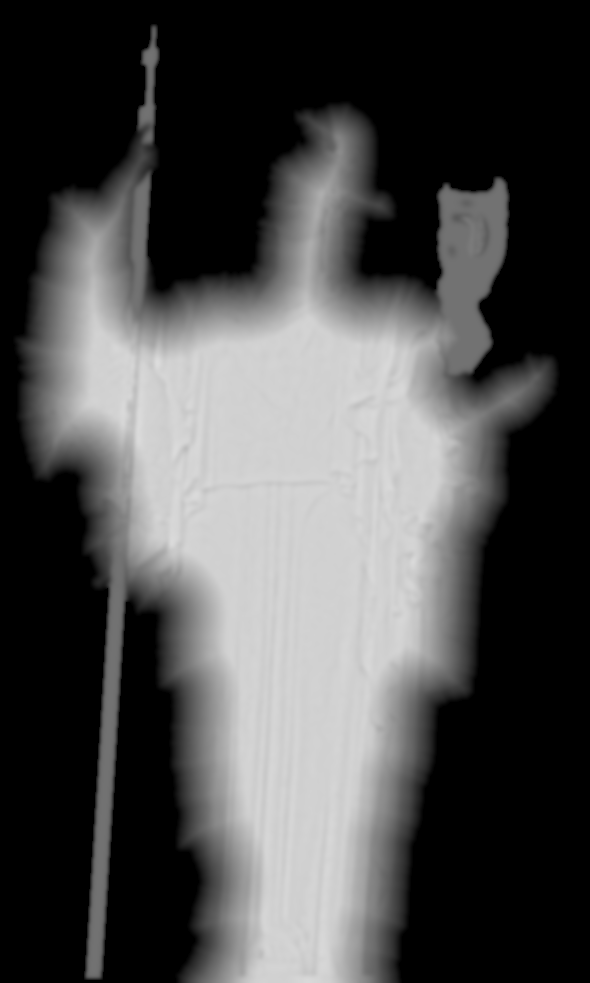
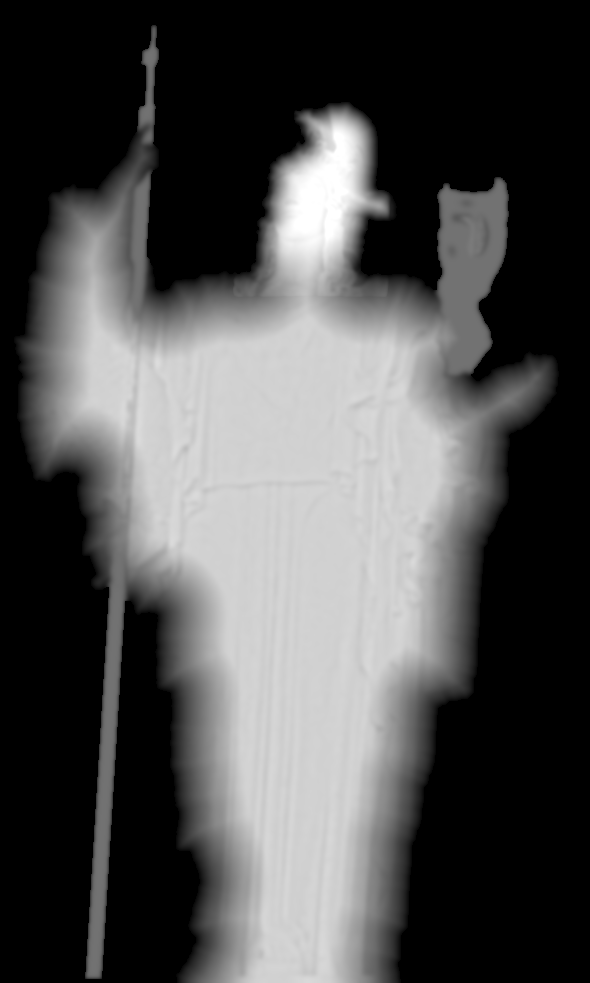
Keep the statue's head true to the photo from the side
The head, neck and helmet now stand out as far as the body in the depth
map, and the relief is 4 cm deep instead of 24, so from the stairs her
head keeps the photo's proportions instead of looking shrunken.

Changed region(s): [[0.4271, 0.0916, 0.6712, 0.3052], [0.2441, 0.061, 0.2746, 0.0916]]

diff --git a/js/relief.js b/js/relief.js
@@ -15,8 +15,9 @@ async function pixels(url) {
   return { data: g.getImageData(0, 0, bitmap.width, bitmap.height).data, width: bitmap.width, height: bitmap.height };
 }
 
-// the figure stands on y = 0, centred on x = 0, its back on z = 0 and facing +z
-export async function romaRelief({ height = 2.85, depth = 0.24 } = {}) {
+// the figure stands on y = 0, centred on x = 0, its back on z = 0 and facing +z. It is kept
+// shallow: a deeper relief stretches the side facing you, and from the stairs her head looked shrunken
+export async function romaRelief({ height = 2.85, depth = 0.04 } = {}) {
   const [map, d] = await Promise.all([new THREE.TextureLoader().loadAsync('assets/relief/roma.png'), pixels('assets/relief/roma-depth.png')]);
   map.colorSpace = THREE.SRGBColorSpace;
   map.anisotropy = 4;
